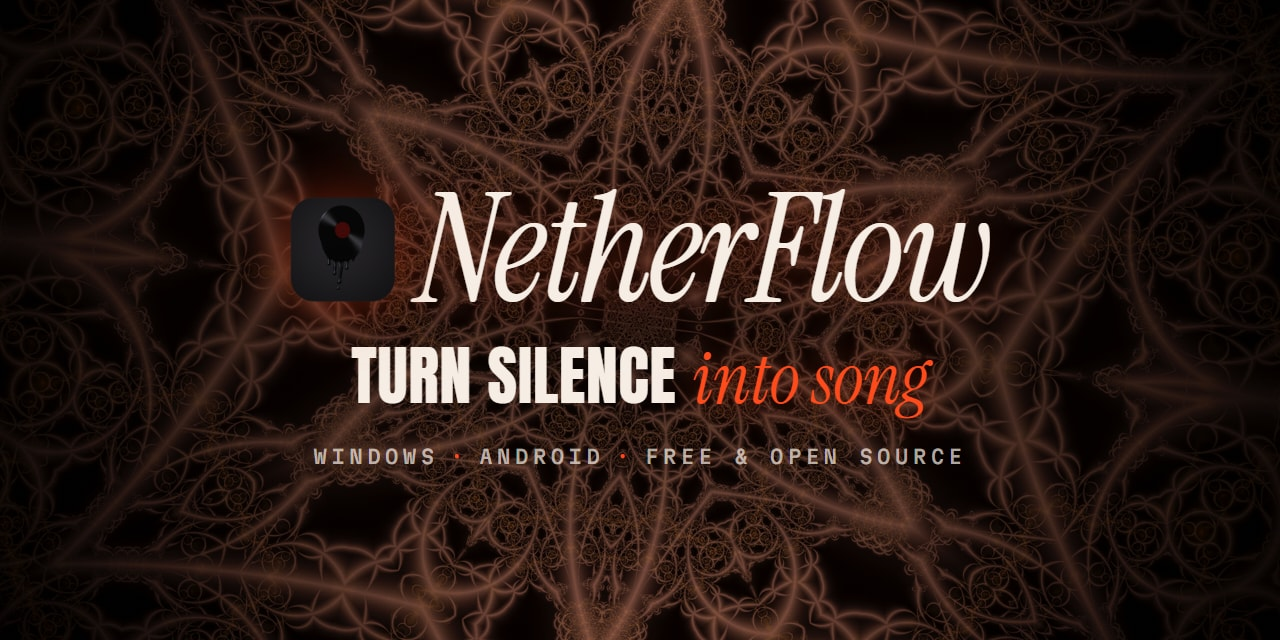
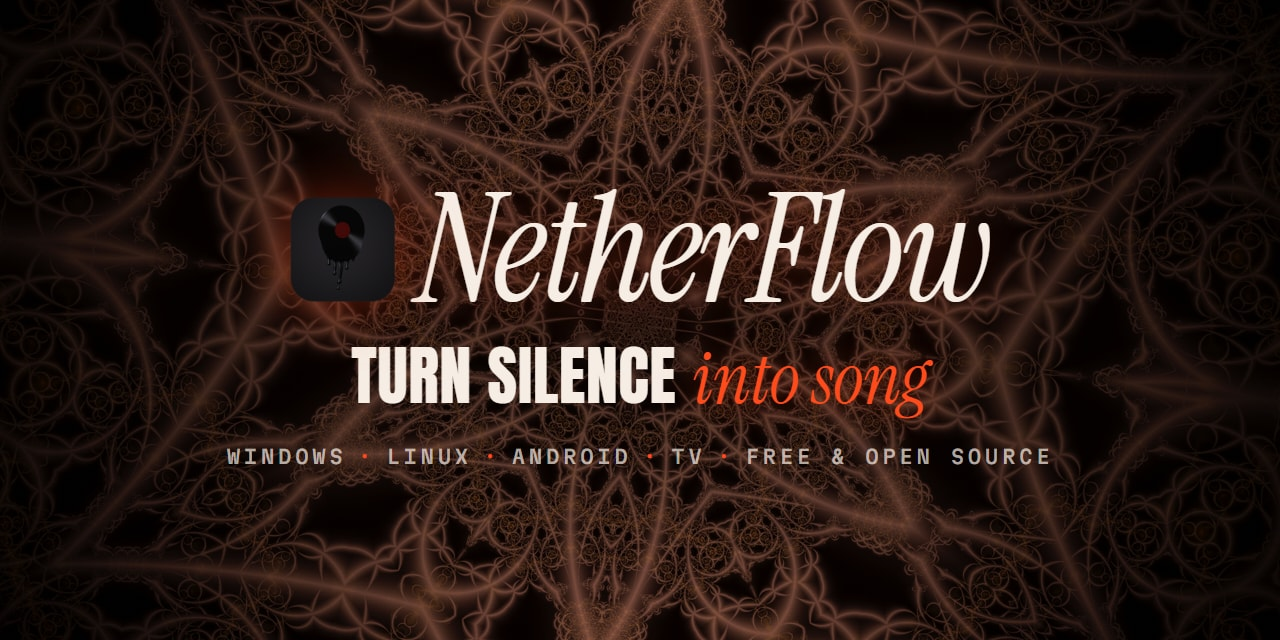
Website and pictures for 1.4: Linux and TV everywhere, the new section, a Linux download
The site says Windows, Linux, Android and TV (title, description, structured data, the hero,
the phone section and each theme's platforms); its New in section is 1.4's (podcasts,
audiobooks, the TV, with a picture of NetherFlow on one); the downloads add Linux's .deb and
fall back to 1.4.0's files. The README's hero and the social preview read Windows, Linux,
Android, TV.

Changed region(s): [[0.1562, 0.6875, 0.8125, 0.75]]

diff --git a/docs/index.html b/docs/index.html
@@ -4,13 +4,13 @@
 <head>
 <meta charset="utf-8">
 <meta name="viewport" content="width=device-width, initial-scale=1">
-<title>NetherFlow: free music player for Windows and Android</title>
-<meta name="description" content="NetherFlow is a free, open-source music player for Windows and Android: full songs, word-synced lyrics, glowing music-reactive backgrounds, themes and Listen together. No account, no ads, no tracking.">
+<title>NetherFlow: free music player for Windows, Linux, Android and TV</title>
+<meta name="description" content="NetherFlow is a free, open-source music player for Windows, Linux, Android and Android TV: full songs, word-synced lyrics, podcasts and audiobooks, glowing music-reactive backgrounds, themes and Listen together. No account, no ads, no tracking.">
 <link rel="canonical" href="https://volodya-rua.github.io/NetherFlow/">
 <link rel="icon" href="logo/netherflow-logo.png">
 <meta name="theme-color" content="#050403">
 <meta property="og:title" content="NetherFlow: turn silence into song">
-<meta property="og:description" content="A free music player for Windows and Android. Full songs, lyrics word by word, backgrounds that move with the music.">
+<meta property="og:description" content="A free music player for Windows, Linux, Android and your TV. Full songs, lyrics word by word, backgrounds that move with the music.">
 <meta property="og:image" content="https://volodya-rua.github.io/NetherFlow/social-preview.jpg">
 <meta property="og:url" content="https://volodya-rua.github.io/NetherFlow/">
 <meta name="twitter:card" content="summary_large_image">
@@ -28,10 +28,10 @@
       "@type": "SoftwareApplication",
       "name": "NetherFlow",
       "url": "https://volodya-rua.github.io/NetherFlow/",
-      "description": "A free, open-source music player for Windows and Android: full songs, word-synced lyrics, music-reactive backgrounds, six themes and Listen together. No account, no ads, no tracking.",
+      "description": "A free, open-source music player for Windows, Linux, Android and Android TV: full songs, word-synced lyrics, podcasts and audiobooks, music-reactive backgrounds, six themes and Listen together. No account, no ads, no tracking.",
       "applicationCategory": "MultimediaApplication",
       "applicationSubCategory": "Music player",
-      "operatingSystem": "Windows 10, Windows 11, Android 7.0+",
+      "operatingSystem": "Windows 10, Windows 11, Linux, Android 7.0+, Android TV",
       "isAccessibleForFree": true,
       "offers": { "@type": "Offer", "price": "0", "priceCurrency": "USD" },
       "downloadUrl": "https://github.com/volodya-rua/NetherFlow/releases/latest",
@@ -192,6 +192,7 @@ main { height: 1500vh; }
 .nw .also { margin-top: 24px; max-width: 58ch; }
 .nw figure { margin: 0; justify-self: center; display: grid; gap: 12px; text-shadow: none; }
 .nw figure img { width: min(300px, 24vw); border-radius: 16px; box-shadow: 0 30px 80px -30px #ff4a1c88, 0 0 0 1px #f3ece41f; }
+.nw figure.wide img { width: min(460px, 34vw); border-radius: 0; box-shadow: none; filter: drop-shadow(0 30px 60px #ff4a1c40); }
 .nw figcaption { font: italic 400 22px/1.2 var(--serif); color: var(--gold); text-align: center; }
 
 /* press play */
@@ -236,6 +237,7 @@ main { height: 1500vh; }
   .nw { grid-template-columns: 1fr; align-content: center; gap: 22px; }
   .nw .also { display: none; }
   .nw figure img { width: 44vw; }
+  .nw figure.wide img { width: 78vw; }
   .nw figcaption { font-size: 18px; }
   .pl .mid .p { display: none; }
   .dl { grid-template-columns: minmax(0, 1fr) auto; padding: 13px 16px; }
@@ -277,7 +279,7 @@ main { height: 1500vh; }
     <div class="wm" id="wm" aria-hidden="true">NetherFlow</div>
     <p class="say" aria-hidden="true">turn silence into song.</p>
     <div class="foot">
-      <p class="p">yo, this is NetherFlow. A free music player for Windows and Android that turns any song into a whole vibe: full songs, lyrics hitting word by word, and backgrounds that actually move with the music.</p>
+      <p class="p">yo, this is NetherFlow. A free music player for Windows, Linux, Android and your TV that turns any song into a whole vibe: full songs, lyrics hitting word by word, and backgrounds that actually move with the music.</p>
       <div class="acts"><a class="btn" href="#play">Download</a><a class="u" href="https://github.com/volodya-rua/NetherFlow">or read the code</a></div>
     </div>
   </section>
@@ -294,7 +296,7 @@ main { height: 1500vh; }
     </div>
   </section>
 
-  <section class="ch ap" id="app" data-a=".398" data-b=".452" aria-label="On Windows">
+  <section class="ch ap" id="app" data-a=".398" data-b=".452" aria-label="On a PC">
     <h2 class="h2">This is it on a PC.</h2>
     <p class="p">Home over Black Hole, Settings over Aurora, the equalizer over Liquid, and the theme picker. YouTube turns loud songs down, so NetherFlow plays everything at its original loudness, and there's an equalizer and a booster if you want more.</p>
     <img class="fb" src="media/pc.webp" alt="NetherFlow on Windows: the home screen on Black Hole, Settings over Aurora, the equalizer over Liquid, and the themes and moods" width="1368" height="992" loading="lazy">
@@ -302,7 +304,7 @@ main { height: 1500vh; }
 
   <section class="ch pk" id="pocket" data-a=".46" data-b=".515" aria-label="On Android">
     <h2 class="h2">And on your phone.</h2>
-    <p class="p">Android 7.0 and up. There's a home-screen widget, the lyrics show up on your lock screen and your car's display, and your liked songs save themselves for offline when you're on Wi-Fi.</p>
+    <p class="p">Android 7.0 and up, and Android TV and Google TV too, worked with the remote. There's a home-screen widget, the lyrics show up on your lock screen and your car's display, and your liked songs save themselves for offline when you're on Wi-Fi.</p>
     <img class="fb" src="media/phones.webp" alt="NetherFlow on Android: the home screen on Smoke, the Spider theme, Settings, and the Blocks theme" width="1268" height="664" loading="lazy">
   </section>
 
@@ -319,18 +321,18 @@ main { height: 1500vh; }
     <div class="bot">
       <div class="tname" id="tName">Stickman</div>
       <p class="tnote" id="tNote">Notebook paper and ink, stick figures dancing to the beat, everything drawn by hand.</p>
-      <span class="small tplat" id="tPlat">Windows and Android</span>
+      <span class="small tplat" id="tPlat">Windows, Linux and Android</span>
       <div class="tabs" id="tTabs" role="tablist" aria-label="Themes"></div>
     </div>
   </section>
 
-  <section class="ch nw" id="new" data-a=".905" data-b=".948" aria-label="New in 1.3">
+  <section class="ch nw" id="new" data-a=".905" data-b=".948" aria-label="New in 1.4">
     <div>
-      <h2 class="h2">New in 1.3: send someone a playlist as a QR code.</h2>
-      <p class="p">Open any playlist, hit Share, and boom, there's a QR code. Your friend points their phone camera at it and sees the whole playlist, even without the app. Nothing gets uploaded, the songs ride inside the link itself.</p>
-      <p class="small also">Also in there: Listen together with up to 10 people (end-to-end encrypted), phone and PC sync over your own Wi-Fi, your song on your Discord profile, a now-playing island over every app on Windows, songs that blend into each other like a DJ set, and your stats on a card you can share.</p>
+      <h2 class="h2">New in 1.4: podcasts, audiobooks, and NetherFlow on your TV.</h2>
+      <p class="p">Every show in Apple's podcast directory and thousands of free audiobooks, right next to your music. It remembers where you stopped, plays them at any speed, and saves episodes for offline. And it's on Android TV and Google TV now: the whole app works with the remote.</p>
+      <p class="small also">Also in there: Explore, with your country's charts, every mood and genre, and mixes made from what you play; playlists you edit together with friends, live; headphone correction for 6,000+ headphones; and NetherFlow on Linux. Plus everything from before: Listen together, playlists as QR codes, phone and PC sync, and your song on your Discord profile.</p>
     </div>
-    <figure><img src="media/share.webp" alt="Sharing the playlist Late night drive: its QR code, Save QR and Copy link" width="560" height="679" loading="lazy"><figcaption>Go on, scan it. It's a real playlist.</figcaption></figure>
+    <figure class="wide"><img src="media/tv.webp" alt="NetherFlow on a TV: the welcome screen, worked with the remote" width="960" height="622" loading="lazy"><figcaption>Grab the remote. It's on your TV now.</figcaption></figure>
   </section>
 
   <section class="ch pl" id="play" data-a=".958" data-b="1.1" aria-label="Download">
@@ -340,14 +342,15 @@ main { height: 1500vh; }
       <span class="sig" aria-label="Volodya.rua">Volodya.rua</span>
     </div>
     <div class="dls-wrap" style="width:100%;display:grid;justify-items:center">
-      <p class="small ver" id="ver">Version 1.3.0, out 15 October 2026</p>
+      <p class="small ver" id="ver">Version 1.4.0, out 16 October 2026</p>
       <div class="dls">
-        <a class="dl" id="dl-lite" href="https://github.com/volodya-rua/NetherFlow/releases/download/v1.3.0/NetherFlow-Lite-Setup-1.3.0.exe"><span><b>Windows</b><span class="pick">the one I'd pick</span></span><code>NetherFlow-Lite-Setup-1.3.0.exe</code><span class="sz">137 MB</span><small>Everything except the Extreme+ 3D races, which need a beefy graphics card anyway.</small></a>
-        <a class="dl" id="dl-full" href="https://github.com/volodya-rua/NetherFlow/releases/download/v1.3.0/NetherFlow-Setup-1.3.0.exe"><span><b>Windows, with the 3D races</b></span><code>NetherFlow-Setup-1.3.0.exe</code><span class="sz">154 MB</span><small>The full app, Redline and Extreme+ included.</small></a>
-        <a class="dl" id="dl-apk" href="https://github.com/volodya-rua/NetherFlow/releases/download/v1.3.0/NetherFlow-1.3.0.apk"><span><b>Android 7.0 and up</b></span><code>NetherFlow-1.3.0.apk</code><span class="sz">29 MB</span><small>Signed, and it updates itself.</small></a>
+        <a class="dl" id="dl-lite" href="https://github.com/volodya-rua/NetherFlow/releases/download/v1.4.0/NetherFlow-Lite-Setup-1.4.0.exe"><span><b>Windows</b><span class="pick">the one I'd pick</span></span><code>NetherFlow-Lite-Setup-1.4.0.exe</code><span class="sz">137 MB</span><small>Everything except the Extreme+ 3D races, which need a beefy graphics card anyway.</small></a>
+        <a class="dl" id="dl-full" href="https://github.com/volodya-rua/NetherFlow/releases/download/v1.4.0/NetherFlow-Setup-1.4.0.exe"><span><b>Windows, with the 3D races</b></span><code>NetherFlow-Setup-1.4.0.exe</code><span class="sz">154 MB</span><small>The full app, Redline and Extreme+ included.</small></a>
+        <a class="dl" id="dl-linux" href="https://github.com/volodya-rua/NetherFlow/releases/download/v1.4.0/NetherFlow-1.4.0-amd64.deb"><span><b>Linux</b></span><code>NetherFlow-1.4.0-amd64.deb</code><span class="sz">165 MB</span><small>Ubuntu, Debian, Mint and the like. On any other distro, the AppImage below.</small></a>
+        <a class="dl" id="dl-apk" href="https://github.com/volodya-rua/NetherFlow/releases/download/v1.4.0/NetherFlow-1.4.0.apk"><span><b>Android 7.0 and up</b></span><code>NetherFlow-1.4.0.apk</code><span class="sz">39 MB</span><small>Phones and Android TV. Signed, and it updates itself.</small></a>
       </div>
     </div>
-    <p class="credit"><span>made by <b>Volodya.rua</b> · a <a class="u" href="https://github.com/volodya-rua/NetherFlow#hucla">HuCla</a> build · GPL v3</span><a href="https://github.com/volodya-rua/NetherFlow/releases/latest">Portable builds and checksums</a><span>Music on this page: Retro Synths, Saturn and City In The Rearview by <a class="u" href="https://freemusicarchive.org/music/holiznacc0/">HoliznaCC0</a>, public domain (CC0)</span><a href="https://www.instagram.com/volodya.rua/">Instagram</a><a href="mailto:volodya.rua@gmail.com">Email</a><a href="legal.html#privacy">Privacy</a></p>
+    <p class="credit"><span>made by <b>Volodya.rua</b> · a <a class="u" href="https://github.com/volodya-rua/NetherFlow#hucla">HuCla</a> build · GPL v3</span><a href="https://github.com/volodya-rua/NetherFlow/releases/latest">Portable builds, the AppImage and checksums</a><span>Music on this page: Retro Synths, Saturn and City In The Rearview by <a class="u" href="https://freemusicarchive.org/music/holiznacc0/">HoliznaCC0</a>, public domain (CC0)</span><a href="https://www.instagram.com/volodya.rua/">Instagram</a><a href="mailto:volodya.rua@gmail.com">Email</a><a href="legal.html#privacy">Privacy</a></p>
   </section>
 </main>
 
@@ -449,11 +452,11 @@ Sound.onSong = s => { songLabel = `${s.title} · HoliznaCC0`; if (snd.getAttribu
 snd.addEventListener('click', () => { const on = Sound.toggle(); snd.setAttribute('aria-pressed', on); sndT.textContent = on ? songLabel : 'Sound off'; skip.hidden = !on; });
 skip.addEventListener('click', () => Sound.next());
 
-// ============ downloads: the newest release, straight from GitHub (the 1.3.0 links stay if that fails) ============
+// ============ downloads: the newest release, straight from GitHub (the 1.4.0 links stay if that fails) ============
 fetch('https://api.github.com/repos/volodya-rua/NetherFlow/releases/latest').then(r => r.ok ? r.json() : null).then(rel => {
   if (!rel?.assets) return;
   const find = re => rel.assets.find(a => re.test(a.name));
-  for (const [id, re] of [['dl-lite', /^NetherFlow-Lite-Setup-[\d.]+\.exe$/], ['dl-full', /^NetherFlow-Setup-[\d.]+\.exe$/], ['dl-apk', /^NetherFlow-[\d.]+\.apk$/]]) {
+  for (const [id, re] of [['dl-lite', /^NetherFlow-Lite-Setup-[\d.]+\.exe$/], ['dl-full', /^NetherFlow-Setup-[\d.]+\.exe$/], ['dl-linux', /^NetherFlow-[\d.]+-amd64\.deb$/], ['dl-apk', /^NetherFlow-[\d.]+\.apk$/]]) {
     const a = find(re), el = $('#' + id); if (!a || !el) continue;
     el.href = a.browser_download_url; el.querySelector('code').textContent = a.name; el.querySelector('.sz').textContent = Math.round(a.size / 1048576) + ' MB';
   }
@@ -627,12 +630,12 @@ const HU0 = .534, HU1 = .606;
 
 // ---- 06 six worlds ----
 const WORLDS = [
-  { name: 'Stickman', font: "'Permanent Marker'", s: 1, bg: '#f2eee4', ink: '#1d1b18', a: '#e0362a', fog: .04, bl: [.08, .98], img: 'stickman', plat: 'Windows and Android', note: 'Notebook paper and ink, stick figures dancing to the beat, everything drawn by hand.' },
-  { name: 'Spider', font: "'Sedgwick Ave Display'", s: 1.1, pb: .55, bg: '#140b26', ink: '#fff5ef', a: '#ff2d55', fog: .03, bl: [.42, .42], img: 'spider', plat: 'Windows and Android', note: 'A comic book at night: a masked hero swinging through the city, POW and WHAM on the beat.' },
-  { name: 'Blocks', font: "'Press Start 2P'", s: .5, bg: '#3a2236', ink: '#ffffff', a: '#7ed321', fog: .026, bl: [.3, .62], img: 'blocks', plat: 'Windows and Android', note: 'A blocky world at dusk to fly over, stone buttons, an XP bar.' },
-  { name: 'Tactical', font: 'Anton', s: 1.05, bg: '#0f1923', ink: '#ece8e1', a: '#ff4655', fog: .03, bl: [.62, .32], img: 'tactical', plat: 'Windows and Android', note: 'Signal red on deep navy: an agent by the lyrics, a round timer, ACE and CLUTCH banners.' },
-  { name: 'Ops', font: "'Black Ops One'", s: 1, bg: '#3b2b1b', ink: '#f6ecdc', a: '#f0a830', fog: .028, bl: [.3, .6], img: 'ops', plat: 'Windows and Android', note: 'A desert bomb site in the afternoon: smoke and tracers on the kick, the lyrics as a kill feed.' },
-  { name: 'Redline', font: 'Unbounded', s: .68, bg: '#060708', ink: '#f5f6f7', a: '#ff1e2d', fog: .024, bl: [.5, .42], img: 'redline', plat: 'Windows, on Extreme+', note: 'Real cars on real circuits in 3D, filmed like a broadcast, a rev counter round the play button.' },
+  { name: 'Stickman', font: "'Permanent Marker'", s: 1, bg: '#f2eee4', ink: '#1d1b18', a: '#e0362a', fog: .04, bl: [.08, .98], img: 'stickman', plat: 'Windows, Linux and Android', note: 'Notebook paper and ink, stick figures dancing to the beat, everything drawn by hand.' },
+  { name: 'Spider', font: "'Sedgwick Ave Display'", s: 1.1, pb: .55, bg: '#140b26', ink: '#fff5ef', a: '#ff2d55', fog: .03, bl: [.42, .42], img: 'spider', plat: 'Windows, Linux and Android', note: 'A comic book at night: a masked hero swinging through the city, POW and WHAM on the beat.' },
+  { name: 'Blocks', font: "'Press Start 2P'", s: .5, bg: '#3a2236', ink: '#ffffff', a: '#7ed321', fog: .026, bl: [.3, .62], img: 'blocks', plat: 'Windows, Linux and Android', note: 'A blocky world at dusk to fly over, stone buttons, an XP bar.' },
+  { name: 'Tactical', font: 'Anton', s: 1.05, bg: '#0f1923', ink: '#ece8e1', a: '#ff4655', fog: .03, bl: [.62, .32], img: 'tactical', plat: 'Windows, Linux and Android', note: 'Signal red on deep navy: an agent by the lyrics, a round timer, ACE and CLUTCH banners.' },
+  { name: 'Ops', font: "'Black Ops One'", s: 1, bg: '#3b2b1b', ink: '#f6ecdc', a: '#f0a830', fog: .028, bl: [.3, .6], img: 'ops', plat: 'Windows, Linux and Android', note: 'A desert bomb site in the afternoon: smoke and tracers on the kick, the lyrics as a kill feed.' },
+  { name: 'Redline', font: 'Unbounded', s: .68, bg: '#060708', ink: '#f5f6f7', a: '#ff1e2d', fog: .024, bl: [.5, .42], img: 'redline', plat: 'Windows and Linux, on Extreme+', note: 'Real cars on real circuits in 3D, filmed like a broadcast, a rev counter round the play button.' },
 ];
 const W0 = .622, WS = .0458;
 WORLDS.forEach((w, i) => { w.u0 = W0 + i * WS; w.u1 = w.u0 + WS; w.g = new THREE.Group(); w.tick = () => {}; scene.add(w.g); });
